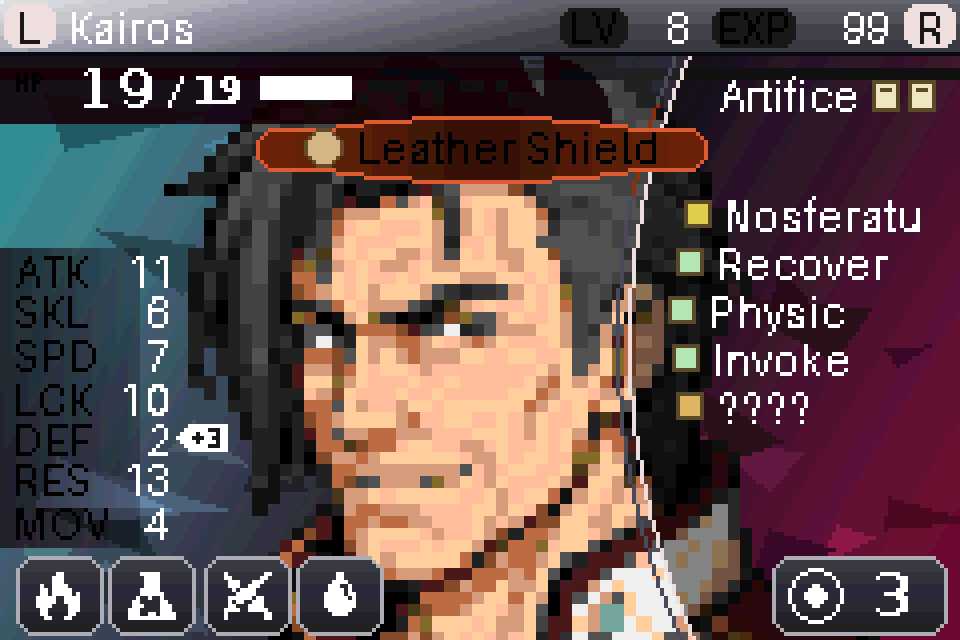
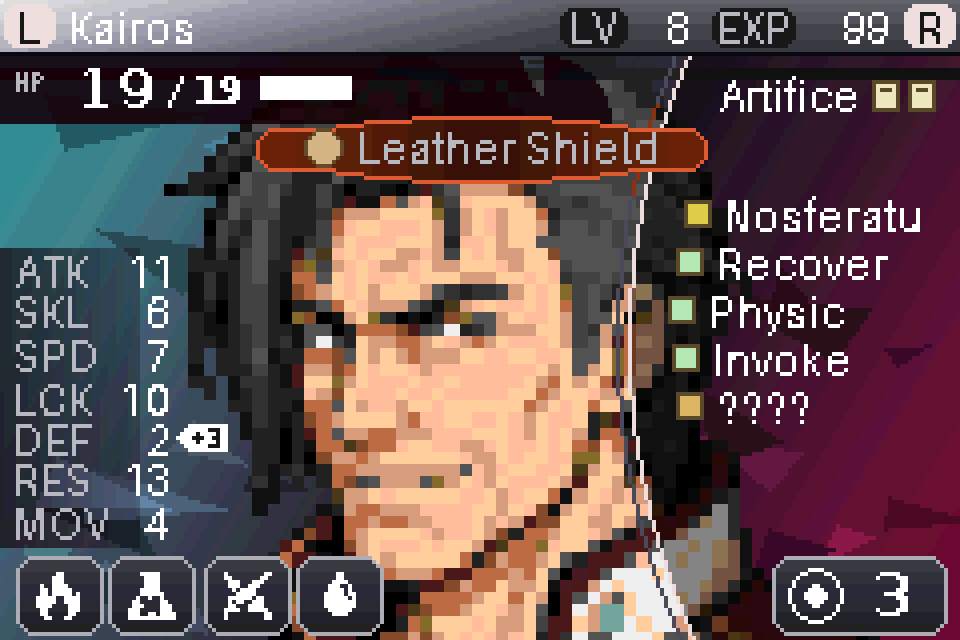
gris_final: etiquetas en gris neutro
Claude-Session: https://claude.ai/code/session_01C4QAM7MwvCQVjJLG12SBSt

diff --git a/gba_status/paleta_oficial.py b/gba_status/paleta_oficial.py
@@ -86,6 +86,6 @@ ZONAS["gris_final"] = [((60, 26, 180, 48), CARMESI)]  # solo el arma equipada en
 ZONAS["gris_final"] = [((60, 26, 180, 48), [(12, 12, 16), (96, 8, 32), (150, 16, 48), (150, 16, 48), (150, 16, 48)])]
 
 # color de las etiquetas (HP, ATK, LV, EXP...) y del texto del arma, por tema (si no, quedan las originales)
-COLOR_ETIQUETAS = {"gris_final": (0, 0, 0)}   # negro
+COLOR_ETIQUETAS = {"gris_final": (184, 184, 192)}   # gris neutro
 NARANJA = [(12, 12, 16), (88, 30, 10), (168, 64, 24), (216, 88, 48), (216, 88, 48)]
 ZONAS["gris_final"] = [((60, 26, 180, 48), NARANJA)]  # arma equipada en naranja brasa, sin contorno claro
